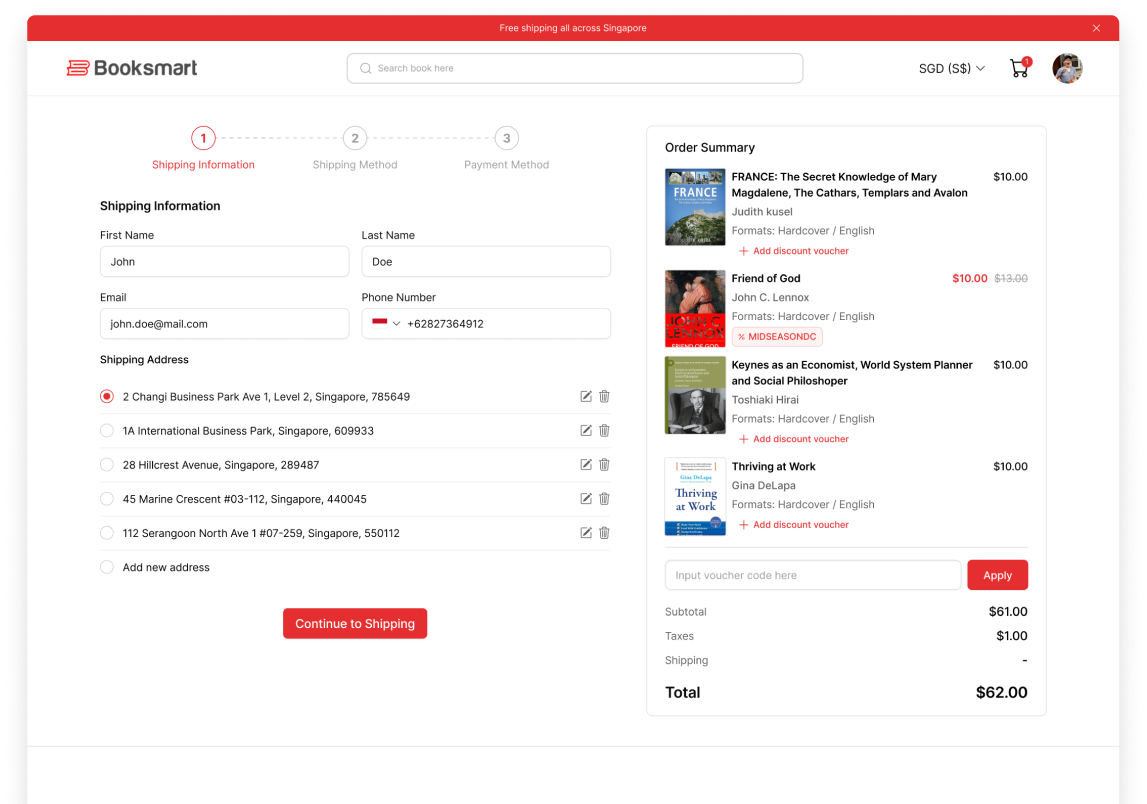
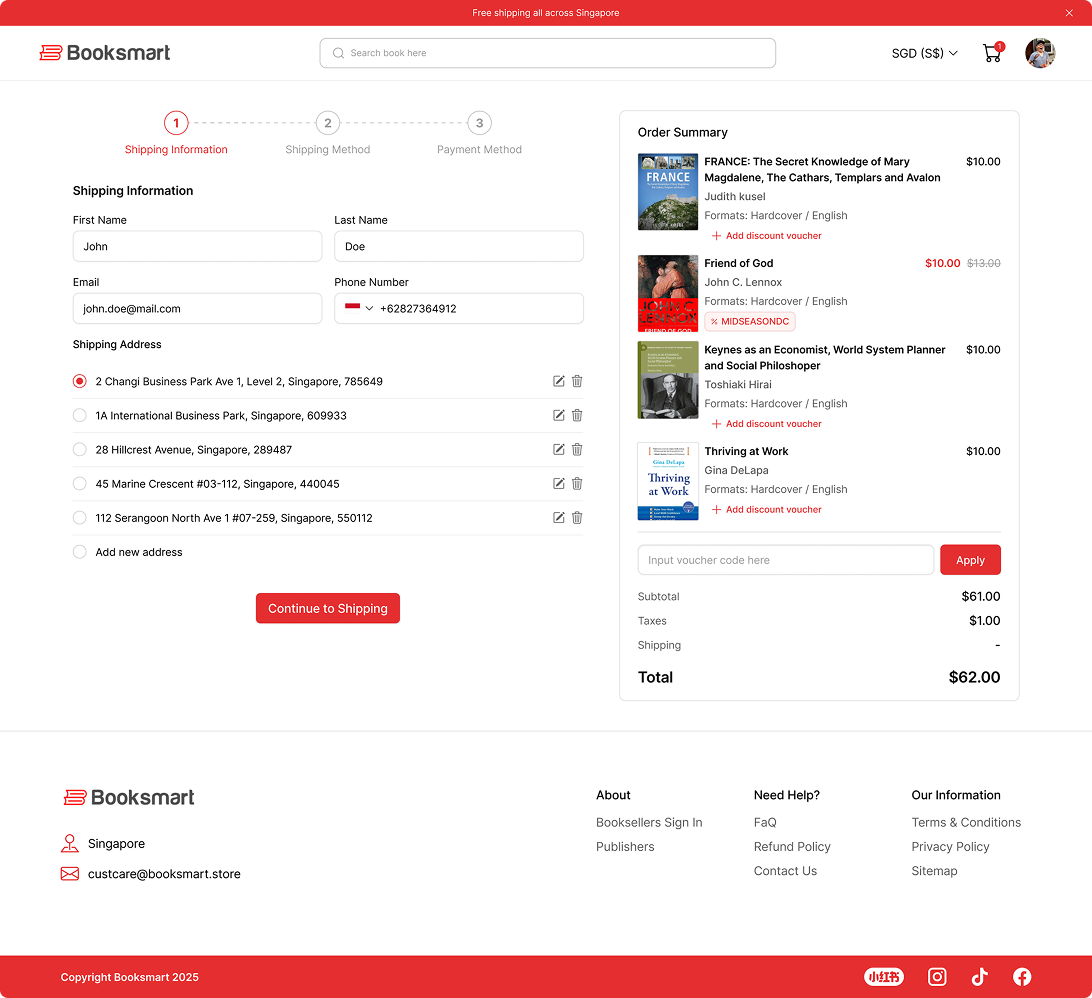
Rework Bookdrop/Booksmart interactive assets, document decisions
- Move the four Restructuring-the-Product-Architecture SVGs into their
  own folder, freeing up deep-dive-detail-pages/ for the dashboard
  leaderboard and revenue screenshots added there
- Replace Booksmart's stepper-demo step 1-3 PNGs with fresh exports
- Ignore the local .netlify/ folder from netlify dev
- Log the stepper-demo sizing rework, dark-mode-card fix, and
  deep-dive-demo shadow/asset-path fixes in components.md

diff --git a/components.md b/components.md
@@ -464,22 +464,28 @@ Satu slot gambar di section "Being an Orchestrator. Not a Coder." masih placehol
 - Screenshot: **crossfade `opacity` saja, tanpa geser/scale**, disamakan dengan page transition site (`page-fade-in` / `body.is-leaving` di `css/style.css`): masuk 220ms `ease-out`, keluar 160ms `ease-in`. Sempat dicoba geser 16px sesuai arah, diganti jadi fade murni atas permintaan user (subtle, senada animasi halaman).
 - Press: `scale(0.96)` pada tab. Keyboard: panah kiri/kanan pindah tab. `prefers-reduced-motion` mematikan semua transisi.
 
-### Posisi gambar (gotcha)
-Export PNG dari Figma node `step N` ikut membawa area drop-shadow dan sudah ke-crop di tinggi frame Figma (1147×804 @2x, bukan 1092×1016), jadi kalau frame jadi lebih tinggi gambarnya "ngawang" (berhenti sebelum tepi bawah). Karena frame baru 559px vs 491px di Figma, gambar diperbesar ×1.138 (559/491) supaya proporsional dan **ujung bawahnya tepat menembus/menempel tepi bawah frame**, sama seperti desain (dicek: selisih 0.1px):
-- `.shots`: `top: 3.98cqw; left: 11.17cqw; width: 77.73cqw` (sudah termasuk padding shadow), di dalam stage `overflow: hidden`.
-- Ketiga export (step 1–3) harus **berukuran sama (1147×804 @2x) dan mulai di y yang sama** supaya transisi antar step tidak melompat. Sempat step 3 beda (mulai 4.5px lebih rendah, 795px tinggi) dan sempat ditambal dengan `object-fit: cover`; setelah user merapikan node di Figma dan di-export ulang, tambalan itu dihapus. Kalau export berikutnya beda ukuran lagi, perbaiki di Figma, bukan di CSS.
-- Kalau frame/rasio diubah lagi, hitung ulang skalanya; jangan pakai ukuran pixel tetap.
+### Sizing & layout — DECIDED (design decision, bukan lagi eksplorasi)
 
-### Frame — STANDARD interactive (sementara)
-Semua interactive asset pakai struktur & ukuran yang sama dengan `.iteration-demo` di artikel, bukan frame abu-abu 840×491 dari Figma:
-- Frame **bg `#f2f3f7` (sama dengan asset lain, JANGAN diganti putih)**, **tanpa border/stroke** (stroke hanya untuk interactive yang bg-nya putih; selain putih jangan dulu sampai ada update), radius 6px, lebar 100% (max 960px di eksplorasi), `overflow: hidden`.
-- Baris switcher di atas (`padding-top: 24px`, pill di-center, tinggi 44px), lalu **stage dengan `aspect-ratio: 840 / 491` di bawahnya**. Rasio 840/491 ada di stage saja, bukan di seluruh frame, jadi tinggi total = 24 + 44 + stage (+2px border kalau bg putih & pakai stroke) (di lebar 960: 629,97px, identik dengan artikel — sudah diukur).
-- Isi stage (screenshot) diposisikan pakai `cqw` (`container-type: inline-size` di stage; 1cqw = 8,4px pada lebar 840) supaya ikut skala dengan lebar frame.
-- **Container:** `container-type: inline-size` ada di frame (`.demo`), bukan di stage, karena di mobile stage menghitung tingginya sendiri pakai `cqw` (container query unit di elemen container itu sendiri mengacu ke container LEBIH ATAS, bukan dirinya).
-- **Breakpoint sama dengan `.iteration-demo` di article:**
-  - **Tablet & desktop (≥768px):** stage `aspect-ratio: 840 / 491`, layout desktop persis sama (dicek di 768px: rasio 1.711, gambar menempel bawah).
-  - **Mobile (<768px):** rasio dilepas (kalau dipaksa 840:491 screenshot jadi kecil sekali). Screenshot hampir selebar frame (`width: 94.5cqw; left: 2.77cqw`, gap 16px dari switcher: `top: calc(16px - 1.236cqw)`), dan tinggi stage = gap + tinggi gambar (`height: calc(16px + 65cqw)`) supaya ujung bawah gambar tetap menembus tepi frame. Dicek di 375px: bawah menempel (0), lebar gambar 324 dari frame 343, tidak ada scroll horizontal. Pill `Step 1/2/3` 250px muat tanpa perubahan.
-- Status "standard" ini sementara, sampai user memutuskan lain.
+Arsitektur lama (frame fix-ratio 840×491 + screenshot diposisikan pakai `cqw`, mekanisme beda antara desktop dan mobile) sudah dibuang total, diganti satu mekanisme yang sama di semua breakpoint:
+
+- **Padding card** (`.stepper-demo`): `24px` di kiri/kanan/atas untuk desktop & tablet, `16px` untuk mobile (`<768px`), **`0` di bawah di semua breakpoint** — sengaja asimetris, karena desainnya screenshot "muncul dari bawah" card, bukan duduk di dalam bingkai di ke-4 sisi.
+- **Aset UI (gambar) — FIXED-RATIO CROP, bukan fill-to-content lagi.** Sempat `width:100%; height:auto` murni (fill parent, tinggi card ngikut tinggi gambar aktif) — lihat poin "replace aset" di bawah buat kenapa itu sempat jadi pilihan. User lalu minta balik ke gaya lama: nggak semua UI kelihatan, sengaja ke-crop (kayak di Figma asli). Dieksplorasi 4 rasio (`explore/booksmart-compact-crop.html`, sudah dihapus) — **dipilih "Balanced" `aspect-ratio: 840/620` (~1.35)** di `.stepper-demo__stage`, nampilin seluruh "Shipping Information" + Order Summary, motong tepat sebelum footer. Ditolak: Ultra-tight (840:320, ~2.63, kelewat compact), Tight (840:491, ~1.71, rasio Figma literal — tapi gambar baru lebih padat jadi tetap nampilin banyak di rasio ini), Generous (840:760, ~1.11, bedanya tipis sama full-height yang dihapus). `.stepper-demo`'s height sekarang ngikut `aspect-ratio` stage (FIXED), bukan lagi ngikut tinggi natural gambar aktif.
+- **Corner radius — asimetris, bukan 6px rata ke-4 sudut lagi.** Atas tetap `6px`, **bawah kiri & kanan `0px`** (`.stepper-demo__stage { border-radius: 6px 6px 0 0 }`) — permintaan user, disengaja: karena sekarang gambarnya di-crop (bukan nempel flush di tepi natural-nya), radius bulat di bawah bakal kebaca "ini memang berakhir di sini", padahal sebenarnya kontennya masih berlanjut di bawah crop. Sudut persegi lebih jujur nunjukkin "ini preview yang dipotong", bukan akhir konten.
+  - **Mobile (`<768px`): radius atas diturunin ke `4px`** (`border-radius: 4px 4px 0 0`, di dalam `@media (max-width:767px)`), bawah tetap `0px` — cuma angka radius atasnya yang beda, alasan "sudut persegi di bawah" di atas tetap berlaku sama persis di breakpoint ini. Diturunin karena card mobile padding-nya juga lebih kecil (16px vs 24px desktop/tablet), jadi radius lebih kecil terasa proporsional.
+- **Box-shadow — REMOVED.** Sempat diimplementasi (light `0 6px 13.6px rgba(0,0,0,0.15)`, dark diusulkan `0 6px 13.6px rgba(0,0,0,0.4)`, keduanya di `.stepper-demo__stage` setelah dipindah dari `.stepper-demo__shot` demi fix bug radius/crop — lihat poin di atas), tapi user minta dihapus total. `.stepper-demo__stage` sekarang cuma `overflow:hidden` + `border-radius:6px` (buat crop PNG margin & bentuk sudut), tanpa `box-shadow` sama sekali — tidak ada edge treatment selain radius. Kalau nanti mau shadow lagi, taruh di `.stepper-demo__stage` (bukan `.stepper-demo__shot`) — alasannya ada di poin bug fix di atas.
+- **Gotcha PNG (lama, sudah tidak berlaku) & replace aset (FIXED).** Export `interactive-step-{1,2,3}.png` yang lama punya transparent margin yang ke-*bake* di dalam file-nya sendiri (left 20px, top 16px, right 21px, bottom 2px, dari kanvas 1147×804). Sempat ditambal dengan `transform: scale(1.04, 1.025); transform-origin: center bottom;` di `.stepper-demo__shot` buat nge-crop margin itu.
+  - **User ganti ketiga file PNG dengan export baru dari Figma** (`assets/images/booksmart-detail-page/interactive-step-{1,2,3}.png`, dimensi baru **1092×998**, bukan lagi 1147×804 — isinya juga beda: sekarang full-page screenshot termasuk navbar DAN footer, bukan cuma area form). Dicek ulang lewat canvas pixel-alpha scan: margin transparan di file baru ini **nyaris nol** (0px kiri/atas, 2px kanan/bawah — cuma anti-aliasing normal, bukan margin desain).
+  - Scale-crop lama jadi SALAH TOTAL buat file baru: bukan cuma nggak perlu, tapi aktif motong ~4% konten asli di tepi (karena nggak ada lagi margin kosong buat di-crop, scale-nya numpang motong konten beneran). Ini yang kelihatan user sebagai "shadow kecil mengelilingi aset UI" — bukan shadow, tapi sisa konten yang kepotong/kegeser dari scale yang udah nggak relevan.
+  - **Fix: `transform`/`transform-origin` dihapus total dari `.stepper-demo__shot`.** Sekarang murni `width:100%; height:auto;` tanpa crop apa pun — `.stepper-demo__stage` (`overflow:hidden` + `border-radius:6px`) masih dipertahankan buat ngebulatin sudut gambar, tapi nggak lagi ngapa-ngapain crop karena nggak ada yang perlu di-crop.
+  - **Pelajaran:** teknik crop yang dikalibrasi ke angka pixel-exact dari SATU versi file (margin, dimensi) otomatis jadi stale begitu file-nya diganti — nggak ada validasi runtime yang bakal ngasih tau kalau asumsinya udah nggak cocok lagi sama file yang sebenarnya. Kalau aset interaktif ganti source file, ukur ulang dari nol (`naturalWidth`/`naturalHeight`, pixel-alpha scan), jangan asumsikan angka lama masih berlaku.
+  - **FIXED — bug "padding 24px cuma kerender ~8px" setelah fitur di atas pertama kali dipasang.** `.stepper-demo__stage` (pembungkus gambar, sudah persis di dalam content-box yang di-padding card-nya) sempat TIDAK punya `overflow:hidden` sendiri — cuma CARD-nya yang punya. Transform scale 1.04 nggak peduli di mana padding berada; dia selalu tumbuh keluar dari kotak layout-nya sendiri (792px di contoh lebar 840px card), dan karena satu-satunya batas clip ada di tepi LUAR card (bukan di tepi content-box), gambar yang membesar itu "numpang lewat" ke area padding dan makan sampai (1.04-1)/2×792 ≈ 15.8px dari tiap sisi — padding 24px yang ditulis di CSS cuma kerender ~8px secara visual (`cardRect`/`shotRect` getBoundingClientRect() keduanya KONSISTEN nunjukin ini, karena rect itu ngukur geometri LAYOUT, bukan yang benar-benar ke-clip/terlihat — baru ketauan salah setelah dicek pakai `document.elementFromPoint()` di berbagai jarak dari tepi, teknik yang lebih akurat buat ngecek batas visual-clip). User sempat curiga ini soal file PNG/SVG yang perlu diupload ulang — bukan, murni CSS. Fix: tambahin `overflow: hidden` ke `.stepper-demo__stage` juga (bukan cuma di card) — sekarang crop scale ke-clip persis di batas content-box (= tepi padding), jadi padding card nggak ikut "dimakan" lagi. Pelajaran: kalau ada elemen yang sengaja dibikin lebih besar dari box layout-nya (`transform:scale()`), overflow:hidden-nya HARUS ada tepat di box yang nggak boleh dilewatin, bukan cuma di ancestor yang lebih jauh — kalau nggak, yang "dimakan" itu nggak cuma elemen di sebelahnya, tapi padding itu sendiri.
+  - **FIXED — fix di atas (`overflow:hidden` di `.stepper-demo__stage`) langsung memunculkan 2 bug baru, ketahuan bareng saat user screenshot: gambar kepotong di atas, radius & shadow nggak sesuai spec.** Akar keduanya sama: `border-radius` dan `box-shadow` masih nempel di `.stepper-demo__shot` (si `<img>`, elemen yang DI-CLIP), bukan di `.stepper-demo__stage` (elemen yang nge-clip):
+    - **Shadow jadi nyaris invisible** — `.stepper-demo__stage` meng-clip SEMUA yang nembus keluar dari box-nya, termasuk box-shadow milik child-nya sendiri (box-shadow memang digambar di LUAR box elemen by definition). Shadow-nya ada, tapi langsung ke-clip habis sebelum sempat kelihatan.
+    - **Radius di 2 sudut atas jadi persegi** — `.stepper-demo__stage` sendiri nggak punya radius (cuma `overflow:hidden` polos), jadi batas clip-nya itu KOTAK LURUS. Radius 6px punya gambar jadi percuma di bagian yang udah lebih dulu kepotong rata sama kotak clip itu.
+    - **Gambar kepotong beneran di atas** — `transform: scale(1.04)` dipakai SERAGAM (uniform) padahal kebutuhan crop-nya beda per sisi: horizontal butuh ±1.8% (margin PNG kiri/kanan), tapi vertikal cuma butuh ±2.0% dari SATU sisi doang (atas aja, karena anchor di bawah — bukan dibagi dua kayak horizontal). Scale 1.04 di sumbu Y berarti motong `(1.04-1)×804 ≈ 32px` dari atas, padahal yang dibutuhin cuma `16/804×555 ≈ 11px` — kelebihan ~21px, dan itu bukan cuma margin transparan PNG lagi, tapi udah masuk ke konten asli (logo "Booksmart", search bar ikut kepotong).
+    - **Fix satu paket:** (1) `border-radius: 6px` dan `box-shadow` dipindah dari `.stepper-demo__shot` ke `.stepper-demo__stage` — karena shadow/radius milik elemen itu sendiri TIDAK ikut ke-clip oleh `overflow:hidden` miliknya sendiri (cuma CHILD-nya yang kena), jadi aman di situ sekaligus bikin batas clip-nya ikut melengkung; (2) `transform: scale(1.04)` (uniform) diganti `scale(1.04, 1.025)` (non-uniform) — scaleX tetap 1.04 (margin kiri/kanan), scaleY diturunin ke 1.025 (cukup buat margin atas 16px doang, nggak lebih). Dicek: header & search bar nggak kepotong lagi, radius bulat di 4 sudut, shadow kelihatan normal di light & dark.
+- **Dark mode card — FIXED, sekarang di SEMUA breakpoint, bukan cuma mobile.** `:root[data-theme="dark"] .stepper-demo { background: #1e1f23; }` awalnya di-scope ke `@media max-width:767px` saja ("desktop/tablet sengaja theme-invariant" — alasannya "exported assets are shared, not per theme", merujuk ke `--color-asset-bg` yang memang nggak punya varian dark). User nunjuk langsung: tema aset di komponen ini harus disamain sama interaktif lain ([§11](#11-deep-dive-demo--live-di-bookdrophtml-section-restructuring-the-product-architecture) `.deep-dive-demo`, [§12](#12-detail-pages-demo--live-di-bookdrophtml-section-deep-dive-detail-pages) `.detail-pages-demo`), dan keduanya SUDAH dark di semua breakpoint (bukan cuma mobile) — jadi `.stepper-demo` yang justru nyimpang, bukan sebaliknya. Fix: rule dark dipindah ke luar media query, taruh langsung setelah base `.stepper-demo` rule (pola yang sama persis kayak `.deep-dive-demo`/`.detail-pages-demo`), yang di dalam `max-width:767px` dihapus karena sekarang redundan. **Yang TIDAK diubah:** gambar (`interactive-step-{1,2,3}.png`) sendiri tetap SATU file dipakai di kedua tema — sama kayak §11/§12, screenshot admin-UI yang terang nggak di-recolor, cuma card di belakangnya yang ikut tema. Diverifikasi di light/dark × mobile(375px)/tablet(1000px)/desktop(1280px) — nggak ada regresi di breakpoint yang sebelumnya sudah benar (mobile).
+- Ketiga export (step 1–3) harus tetap sama ukuran & posisi konten di dalamnya — kalau beda, benerin di Figma, bukan tambal di CSS.
 
 ---
 
@@ -488,6 +494,8 @@ Semua interactive asset pakai struktur & ukuran yang sama dengan `.iteration-dem
 **Apa yang diganti:** section ini tadinya punya 3 sub-blok teks dengan 4 gambar statis (`img-7.png`, `img-8.png`, `img-9_1.png`, `img-9_2.png`). Sekarang cuma 1 interactive terpasang — di blok teks PERTAMA ("Restructuring the Product Architecture", pengantar keseluruhan) — dan 2 sub-blok lain ("Consolidating the Core (Product Tab)", "Decoupling Logistics (Manufacturer & Supplier Tabs)") jadi teks saja tanpa gambar sendiri, karena kontennya sudah terwakili lewat tab di interactive yang sama. Gambar statis lama (`img-7/8/9_*.png`) sudah tidak dipakai di mana pun tapi belum dihapus dari `assets/`.
 
 **Dibangun di `explore/bookdrop-before-after.html`** lewat banyak iterasi (lihat riwayat chat), lalu di-promote ke production (CSS → `css/style.css`, JS → `js/main.js` sebagai `initDeepDiveDemo()`, file prototype-nya sudah dihapus sesuai konvensi "tear down before shipping").
+
+**FIXED — 4 `src` patah gara-gara folder asset dipindah.** User mindahin `interactive-2-legacy.svg` dan 3 `interactive-2-redesign-{product,manufacturer,supplier}.svg` dari `assets/images/bookdrop-detail-page/interactive/deep-dive-detail-pages/` ke folder baru `.../restructuring-the-product-architecture/` (buat ngelapangin folder lama buat asset dashboard [§12](#12-detail-pages-demo--live-di-bookdrophtml-section-deep-dive-detail-pages)), tapi `src` di `bookdrop.html` masih nunjuk ke folder lama. Fix: update 4 `src` ke folder barunya. Diverifikasi browser (toggle Before/After, lalu select Product/Manufacturer/Supplier) — bukan cuma dicek HTTP 200 fetch, karena gambar `display:none` tidak selalu `complete`/`naturalWidth` kebaca benar lewat `<img>` DOM query walau asetnya valid.
 
 ### Struktur
 Satu kontrol gabungan: toggle Before/After di atas (reuse class `.stepper-demo__tabs`/`__tab`/`__overlay` apa adanya — bukan duplikat baru, supaya otomatis dapat token warna dark-mode yang sudah ada), gap 16px, lalu area konten (`.deep-dive-demo__body`, tinggi fix 491px) di bawahnya. Card luar (`.deep-dive-demo`) padding 24px rata ke-4 sisi, **height: fit-content** (bukan angka terpisah — dihitung dari toggle + gap + body, supaya tidak perlu disinkronkan manual tiap kali salah satu berubah). Dua kali sempat dicoba jadi 2 section terpisah dengan toggle melayang nge-overlap frame — dua-duanya dibalik lagi ke versi gabungan ini atas permintaan user.
@@ -505,12 +513,54 @@ Satu kontrol gabungan: toggle Before/After di atas (reuse class `.stepper-demo__
 Ketiga shot After ditumpuk `position: absolute` di satu `.deep-dive-demo__viewport` yang sama. Shot non-aktif cuma `opacity:0` saja ternyata TETAP ikut dihitung browser ke `scrollHeight` parent-nya (elemen `position:absolute` tetap masuk hitungan scrollable-overflow milik ancestor yang jadi positioning context-nya, walau opacity 0) — jadi pas Manufacturer/Supplier (natural ~1000px) aktif, user masih bisa scroll sejauh tinggi Product (1658px), lewat ujung gambar asli ke background kosong. Fix: shot non-aktif di-`display:none` (bukan cuma opacity), tapi DITUNDA sampai animasi fade-keluar (160ms) selesai dulu via `setTimeout` di JS, supaya transisi tetap mulus sebelum benar-benar dikeluarkan dari layout.
 
 ### Edge treatment pada gambar
-`.deep-dive-demo__shot` dapat `box-shadow: inset ...` tipis (bukan `outline`) — **inset**, bukan shadow ke luar seperti biasa, karena `.deep-dive-demo__body` wajib `overflow:hidden` buat mekanisme scroll-dan-crop-nya, jadi shadow yang mengarah keluar langsung ke-clip habis di garis yang sama (invisible, bukan subtle). Dark mode: collapse jadi 1 ring putih tipis (`rgb(255 255 255 / 0.1)`) sesuai prinsip emil-surfaces, bukan shadow hitam yang sama dipertahankan. Radius gambar (`border-radius: 6px`) disamakan dengan parent-nya (gap 0 di antara keduanya) — sempat lupa di-set, bikin outline/shadow kepotong persegi di sudut alih-alih ikut melengkung.
+`.deep-dive-demo__shot` dapat `box-shadow: inset ...` tipis (bukan `outline`) — **inset**, bukan shadow ke luar seperti biasa, karena `.deep-dive-demo__body` wajib `overflow:hidden` buat mekanisme scroll-dan-crop-nya, jadi shadow yang mengarah keluar langsung ke-clip habis di garis yang sama (invisible, bukan subtle). Radius gambar (`border-radius: 6px`) disamakan dengan parent-nya (gap 0 di antara keduanya) — sempat lupa di-set, bikin outline/shadow kepotong persegi di sudut alih-alih ikut melengkung.
+
+**Shadow — FIXED 2×, riwayat lengkap.** (1) Dark mode awalnya di-"collapse" jadi 1 ring putih tipis (`inset 0 0 0 1px rgb(255 255 255/0.1)`) saat §10 (`.stepper-demo__shot`) dibangun nyontek komponen ini — niatnya ngikutin prinsip umum emil-surfaces "dark mode flattens shadows to rings". User menegur: masalah shadow hitam di dark mode itu cuma soal WARNA-nya invisible di atas card gelap, bukan soal BENTUKnya yang harus berubah jadi ring. (2) Dikoreksi ke bentuk 2-layer sama persis dengan versi light (hairline + soft blur) — **lalu user minta hairline-nya dihapus juga di kedua tema**, cuma mau 1 drop-shadow blur polos. Final: `box-shadow: inset 0 1px 4px rgb(0 0 0 / 0.05)` (light, semua breakpoint) / `inset 0 1px 4px rgb(255 255 255 / 0.06)` (dark) — satu layer, beda warna per tema.
 
 ### Gotcha lain
 - **`scroll-behavior: smooth` site-wide** bikin `scrollIntoView()` biasa (tanpa `behavior:'auto'`/`'instant'`) tidak langsung akurat untuk automated testing — posisi elemen baru benar setelah animasi smooth-scroll selesai, bukan di frame yang sama saat dipanggil.
 - **Lebar sekarang ikut sistem gutter asli situs** (40/100/300px di breakpoint 768/1280, kolom desktop dibatasi 840px) — bukan lagi lebar prototype sendiri, otomatis benar karena komponennya ditaruh langsung di dalam `.detail-block--media` yang sudah pakai sistem itu.
 - **FIXED — tinggi `.deep-dive-demo__body` sekarang proporsional (`cqw`), bukan `491px` flat.** Awalnya flat 491px (angka yang pas untuk kolom desktop ~840px) bikin ruang kosong putih di bawah gambar Manufacturer/Supplier begitu komponennya lebih sempit dari desktop — di tablet (user yang nemu bug-nya), gambar After yang pendek (natural ~1000px) jadi lebih pendek dari 491px setelah ikut skala lebar, nyisain blank space, bukan area scroll. Diganti `height: calc(100cqw * 491 / 840)` (butuh `container-type: inline-size` di `.deep-dive-demo`, parent-nya) — mempertahankan proporsi 491:840 yang sama persis di breakpoint manapun, bukan cuma di lebar yang kebetulan dites. Efek sampingnya: concern mobile di atas (ruang kosong di layar 375px) ikut kebeneran otomatis tanpa perubahan terpisah, karena fix-nya proporsional, bukan per-breakpoint.
+
+### Mobile (<768px): native `<select>`, bukan toggle + in-image hotspot
+
+Mekanisme desktop/tablet (toggle pill + hotspot transparan di atas gambar) diukur langsung di breakpoint mobile: tap target hotspot cuma **18×28px**, jauh di bawah minimum 44×44px. Opsi "biarkan tanpa interaktif di mobile (static image)" dan "tetap pakai hotspot apa adanya" dievaluasi dan ditolak user — solusi yang dipilih: ganti ke 2 buah native `<select>` (Before/After, lalu Product/Manufacturer/Supplier yang muncul hanya saat "After" dipilih), dibangun & dibandingkan di `explore/bookdrop-mobile-select.html` (sudah dihapus sesuai konvensi "tear down before shipping").
+
+- **Satu state machine, dua input method.** Select mobile memanggil fungsi `selectPanel()`/`selectTab()` yang SAMA dipakai toggle & hotspot desktop (`initDeepDiveDemo()` di `js/main.js`) — bukan logic render terpisah yang bisa desinkron dari yang asli.
+- **Mekanisme scroll-dan-crop (`height` cqw tetap, `overflow:hidden`, scroll-shadow mask) di-nonaktifkan di mobile**, bukan cuma di-resize — di breakpoint `max-width:767px`, `.deep-dive-demo__body`/`__viewport` jadi `height:auto; overflow:visible`, dan `.deep-dive-demo__panel`/`__shot` yang tadinya `position:absolute` (buat numpuk Before/After atau antar-tab) di-override `position:static` supaya kontribusi ke tinggi auto parent-nya — alasannya sama kenapa redesign ini ada dari awal: nested scroll (scroll box di dalam halaman yang sudah scroll) adalah UX yang buruk di layar sentuh.
+- **Hotspot di-`display:none` total di mobile** (bukan cuma pointer-events), karena posisinya (cqw relatif ke `.deep-dive-demo__viewport`) jadi tidak relevan lagi setelah mekanisme scroll-crop dicabut, dan navigasinya sudah sepenuhnya lewat select.
+- **Padding card jadi 16px di mobile** (dari 24px desktop/tablet) — `.deep-dive-demo { padding: var(--space-16); }` di breakpoint yang sama. Gambar tetap `width:100%` dari content-box, jadi otomatis ikut padding manapun tanpa perubahan terpisah.
+- **Spek select: literal Figma/shadcn `native-select`** (node Figma 206:1127) — padding `4px 32px 4px 8px` (kanan menampung gap 8px + chevron 16px + 8px), radius 6px, font Geist 14px/20px, border fokus ganti warna ke `--color-headline` (bukan cuma outline). **Tanpa override tinggi 44px**: sempat dicoba (touch-target minimum), lalu sengaja DIBATALKAN atas permintaan user — tinggi natural (padding + line-height + border ≈ 30px) dipakai apa adanya. Konsekuensinya: target tap select ini sendiri ada DI BAWAH 44×44px, tradeoff yang disadari, bukan kelalaian — dicatat di sini supaya kelihatan kalau ada yang mau menilai ulang.
+- **Dark mode select** tidak otomatis ikut token `--neutral-*` (token itu statis, tidak flip per tema) — warna dark select (`#2a2b2f` bg, `#3a3b3f` border) hand-picked, pola yang sama dengan `.deep-dive-demo` sendiri (`#1e1f23` hardcoded, bukan token).
+- **Sinkronisasi lintas-breakpoint:** kalau user resize/rotate melewati 768px setelah berinteraksi di desktop (klik toggle/hotspot), select mobile bisa nampilkan state basi ("Before/Product" padahal gambar aktifnya beda) — ditambal `syncMobileControls()` di `js/main.js`, dipanggil saat init dan di listener `resize` yang sudah ada (dipakai ulang, bukan listener baru).
+- **FIXED — lebar select ikut OPSI TERPANJANG di list, bukan opsi yang lagi dipilih.** Native `<select>` tanpa `width` eksplisit itu auto-size ke opsi TERLEBAR di seluruh `<option>`-nya, bukan ke teks yang lagi tampil — jadi pilih "Before" (pendek) pun box-nya tetap selebar "Manufacturer" (opsi terpanjang di situ). Kebeneran lebih kentara di [§12](#12-detail-pages-demo--live-di-bookdrophtml-section-deep-dive-detail-pages) (5 opsi, panjang teks jauh beda-beda, "Today's Order" vs "Top Selling Product Leaderboard") — user yang nemu lewat situ, tapi bug-nya ada di SEMUA pemakai `.native-select` (§10, §11, §12) karena ini batasan `<select>` bawaan browser, bukan sesuatu yang spesifik 1 komponen. **CSS doang nggak bisa**, nggak ada cara bikin `<select>` ngikut ukuran opsi yang lagi aktif lewat CSS murni — fix-nya `sizeNativeSelectToSelection(select)` di `js/main.js`: ukur lebar teks opsi terpilih pakai `canvas.measureText()` (nggak micu reflow, beda sama trik hidden-span), tambah padding+border select itu sendiri (box-sizing: border-box, lihat reset global), baru di-set jadi inline `style.width` select-nya. Dipanggil sekali waktu init tiap select dan ulang di tiap `change` — satu fungsi, 3 pemanggil (`initStepperDemos`, `initDeepDiveDemo` ×2 select, `initDetailPagesDemo`), bukan logic duplikat per komponen. `.native-select` dikasih `transition: ... width 150ms ease` (dengan override `prefers-reduced-motion`) supaya pindah opsi pendek↔panjang resize boxnya, bukan snap instan. Re-measure sekali lagi di `document.fonts.ready` buat jaga-jaga kalau function ini kepanggil sebelum Geist selesai dimuat (metric font fallback beda sama Geist, bisa bikin lebar awal meleset dikit sebelum font asli siap).
+
+---
+
+## 12. `detail-pages-demo` — LIVE di [bookdrop.html](bookdrop.html), section "Deep-Dive Detail Pages"
+
+**Apa yang diganti:** section ini tadinya `.detail-image-grid` statis, 5 gambar (`img-2_1.png`...`img-2_5.png`) ditampilkan sekaligus. Sekarang 1 interactive: native `<select>` (5 opsi) + 1 area gambar yang nampilin shot aktif saja. Konten select: Today's Order, Total Revenue, Top Selling Product Leaderboard, Top Supplier Leaderboard, Top Sales Channel Leaderboard — masing-masing nunjuk ke asset baru user (`interactive-todays order.png`, `interactive-revenue.png`, `interactive-leaderboard-selling product.png`, `interactive-leaderboard-supplier.png`, `interactive-leaderboard-sales channel.png`, semua di `assets/images/bookdrop-detail-page/interactive/deep-dive-detail-pages/`). Filename yang ada spasi di-encode `%20` di `src`, filenya sendiri TIDAK di-rename.
+
+**Trigger pembuatan:** user accidentally mindahin 4 SVG asset [§11](#11-deep-dive-demo--live-di-bookdrophtml-section-restructuring-the-product-architecture) (`.deep-dive-demo`, section "Restructuring the Product Architecture") ke folder `restructuring-the-product-architecture/`, yang bikin `src` production (masih nunjuk ke folder lama `deep-dive-detail-pages/`) patah. Dua hal diperbaiki sekaligus: (1) update 4 `src` di `.deep-dive-demo` ke folder barunya, (2) bangun `.detail-pages-demo` ini pakai folder `deep-dive-detail-pages/` yang sekarang isinya asset dashboard baru.
+
+### Kenapa select dari awal, bukan toggle/hotspot dulu baru fallback select di mobile (beda dari §11 & §10)
+§11 (`.deep-dive-demo`) dan §10 (`.stepper-demo`) sama-sama punya pill toggle 2–3 opsi di desktop/tablet, baru native-select di `max-width:767px`. Komponen ini beda spek dari awal — user eksplisit minta native-select di SEMUA breakpoint karena 5 opsi kepanjangan buat pill. Konsekuensinya: `.detail-pages-demo__control` adalah class BARU, bukan reuse `.native-select-row` — class itu base-nya `display:none`, cuma `flex` di bawah 767px, jadi semantiknya salah buat kontrol yang harus selalu kelihatan. Yang di-reuse cuma box-model select-nya sendiri (`.native-select-wrap`/`.native-select`/`.native-select-icon`), bukan baris pembungkusnya.
+
+### Visual: sama persis dengan `.deep-dive-demo`, cuma kontrolnya beda
+- **Card:** `background: var(--color-asset-bg)` light / `#1e1f23` dark (hardcode sama seperti §11, token `--color-asset-bg` sendiri tidak punya varian dark), radius 6px, `height: fit-content`.
+- **Padding:** 24px rata ke-4 sisi di desktop/tablet, turun ke 16px di `max-width:767px` — identik §11, bukan model asimetris 0-bottom punya `.stepper-demo`.
+- **Gambar:** radius 4px (ikut `.deep-dive-demo__body`, bukan radius 6px card-nya sendiri), `box-shadow: inset 0 1px 4px rgb(0 0 0 / 0.05)` light / `inset 0 1px 4px rgb(255 255 255 / 0.06)` dark — 1 layer blur polos, tanpa hairline, sama persis formula final §11.
+
+### Mekanisme switch: versi SEDERHANA (`.stepper-demo`), bukan versi scroll-crop (`.deep-dive-demo`)
+Shot non-aktif `display:none` total (bukan `opacity:0` + `position:absolute` ditumpuk), shot `.is-active` `display:block` — tinggi card otomatis ngikut gambar yang lagi tampil, tanpa `cqw` math atau `overflow:hidden` + scroll viewport. Dipilih sengaja, BUKAN default: 5 opsi di sini flat (satu dashboard screenshot per opsi, ukuran beda-beda bebas), tidak ada pasangan Before/After yang butuh crossfade di tinggi yang sama kayak §11 — jadi bug class scroll-bleed yang jadi alasan §11 pakai mekanisme viewport (lihat catatan "Bug scroll-bleed" di §11) tidak relevan di sini, mekanisme lebih simpel aman dipakai.
+
+`data-page` (bukan index angka) di tiap `.detail-pages-demo__shot`, cocok 1:1 sama `value` opsi select — state machine-nya flat (1 select, 1 level), beda dari §11 yang nested (2 select: Before/After lalu Product/Manufacturer/Supplier).
+
+### Implementasi
+CSS: `.detail-pages-demo` + turunannya di `css/style.css`, langsung setelah blok hotspot §11. JS: `initDetailPagesDemo()` di `js/main.js`, dipanggil setelah `initDeepDiveDemo()`.
+
+### Status
+Build pertama, belum ada iterasi/bug yang ditemukan user — sesuai permintaan user ("coba buat ini dulu, aku mau tau hasilnya seperti apa"), ini hasil awal buat direview, bukan hasil final yang sudah dikonfirmasi.
 
 ---
 
